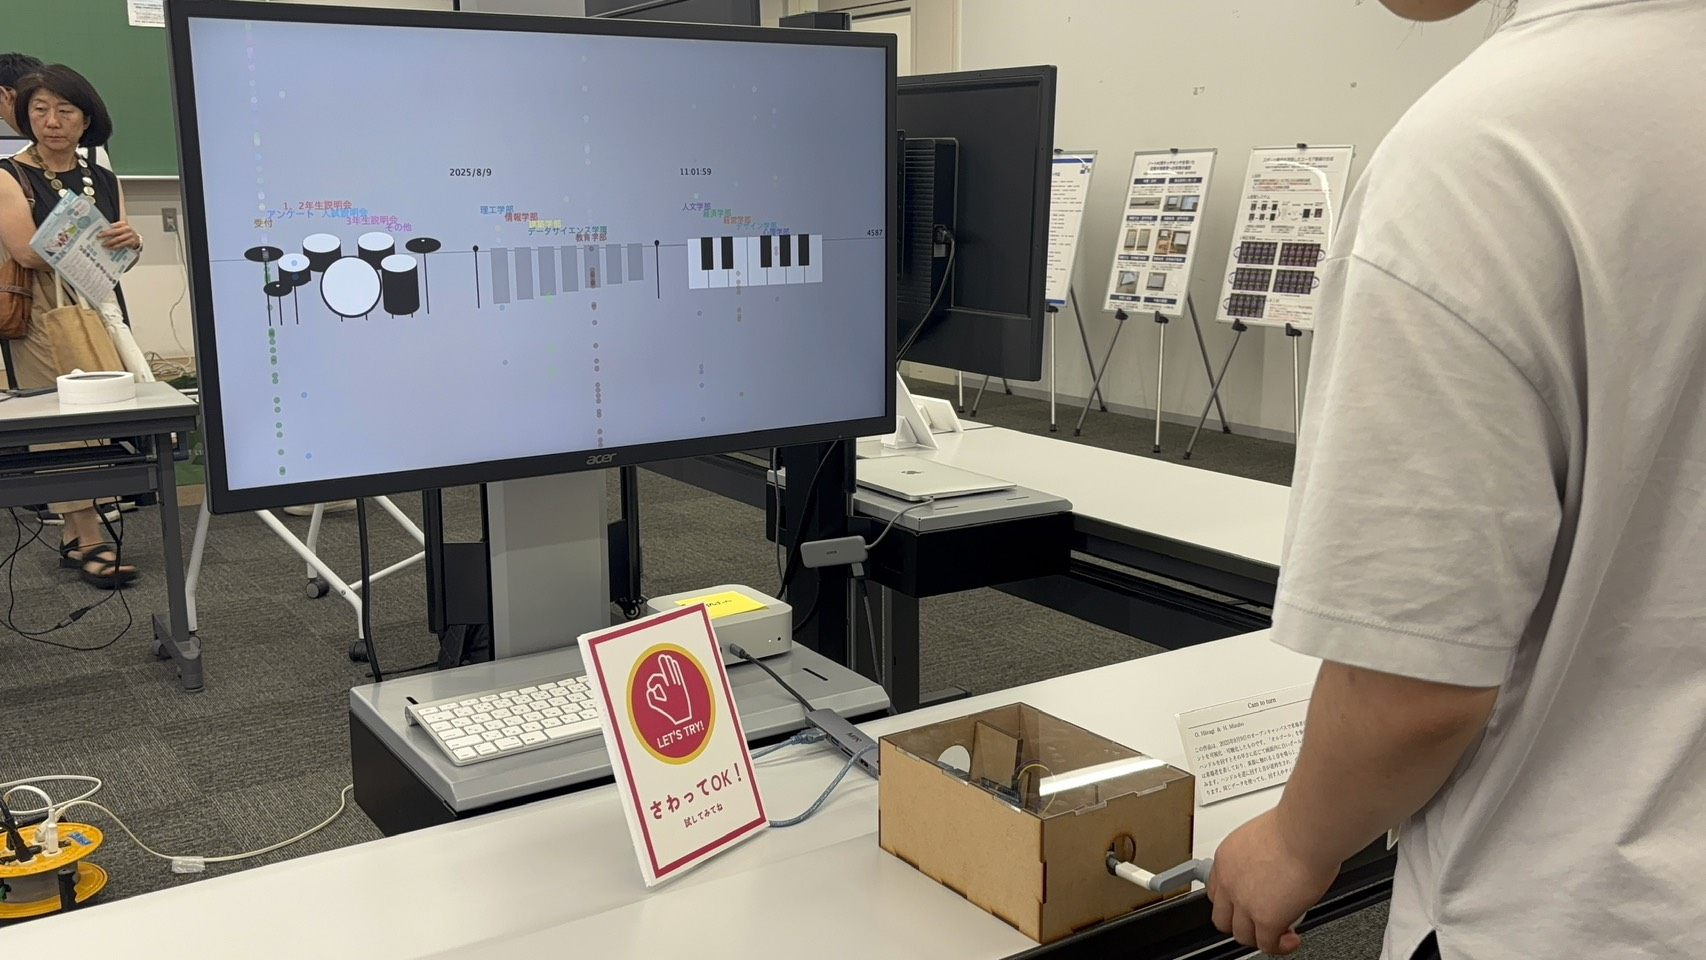
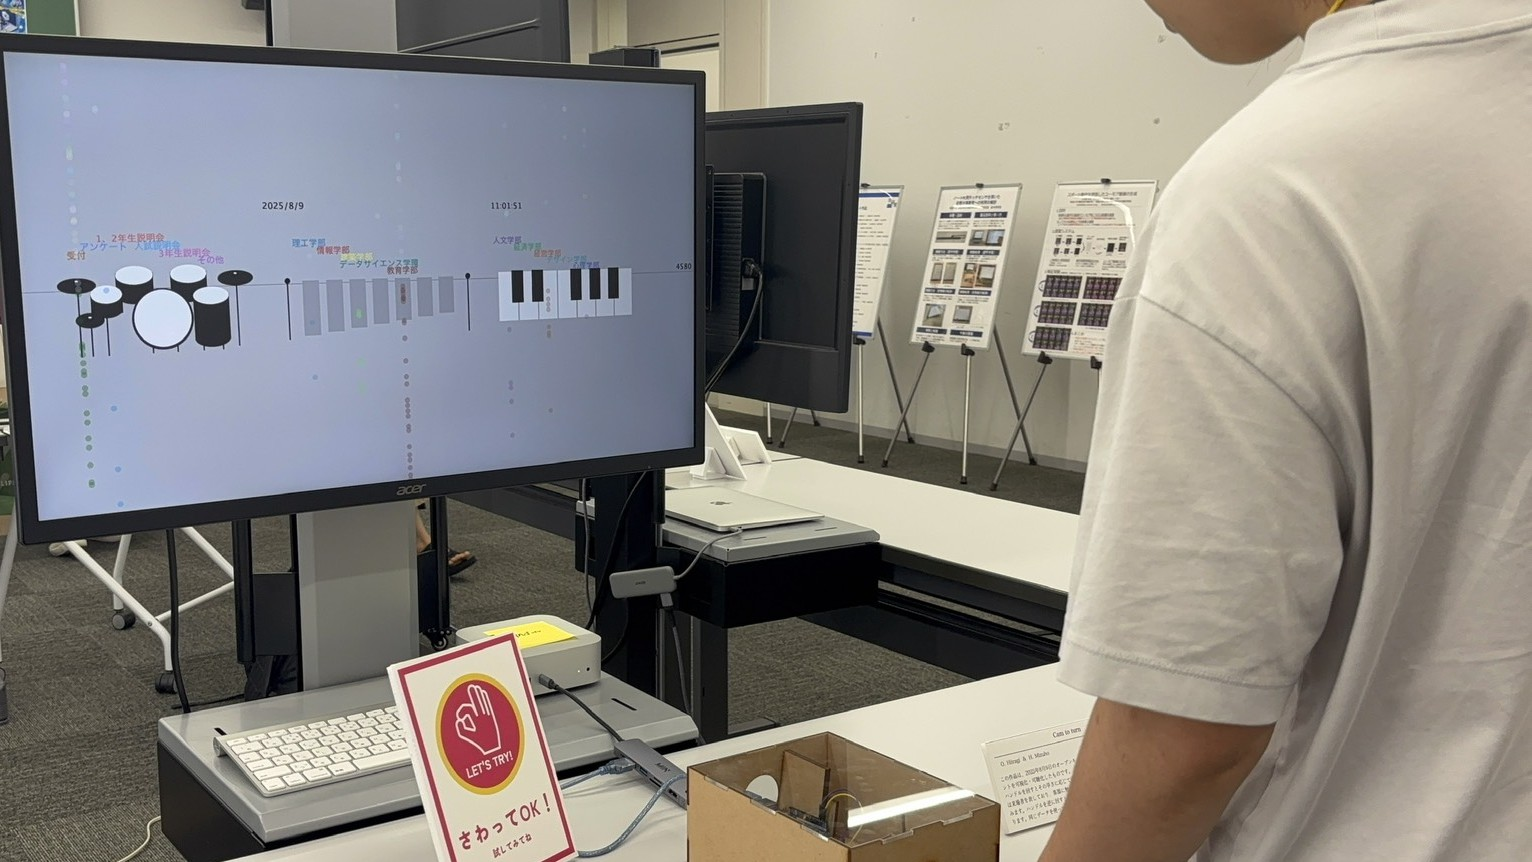
maru

diff --git a/content/works/work01.md b/content/works/work01.md
@@ -80,24 +80,25 @@ hidemeta: true
   display: flex;
   gap: 12px;
   overflow-x: auto;
-  overflow-y: visible !important; 
-  padding: 10px 4px 8px 4px !important; 
+  overflow-y: visible !important; /* 縦方向のはみ出しを許可 */
+  padding: 10px 4px 8px 4px !important; /* 上下に余白を追加 */
   scrollbar-width: thin;
 }
 
 /* サムネイルの丸型設定 */
 .work-thumb-item {
-  width: 60px;
-  height: 60px;
+  width: 60px !important;
+  height: 60px !important;
   border-radius: 50% !important;
   flex-shrink: 0;
-  overflow: hidden;
+  overflow: hidden !important;
   cursor: pointer;
   border: 2px solid transparent;
   opacity: 0.6;
   transition: all 0.2s ease;
-  background: #f4f4f4;
+  background: transparent !important;
   box-sizing: border-box;
+  padding: 0 !important;
 }
 
 .work-thumb-item.active, .work-thumb-item:hover {
@@ -107,10 +108,15 @@ hidemeta: true
 }
 
 .work-thumb-item img {
-  width: 100%;
-  height: 100%;
+  width: 100% !important;
+  height: 100% !important;
+  max-width: 100% !important;
+  max-height: 100% !important;
   object-fit: cover !important;
-  display: block;
+  border-radius: 0 !important; 
+  margin: 0 !important; 
+  padding: 0 !important;
+  display: block !important;
 }
 
 /* 右側：情報テキスト群 */

diff --git a/content/works/work03.md b/content/works/work03.md
@@ -87,17 +87,18 @@ hidemeta: true
 
 /* サムネイルの丸型設定 */
 .work-thumb-item {
-  width: 60px;
-  height: 60px;
+  width: 60px !important;
+  height: 60px !important;
   border-radius: 50% !important;
   flex-shrink: 0;
-  overflow: hidden;
+  overflow: hidden !important;
   cursor: pointer;
   border: 2px solid transparent;
   opacity: 0.6;
   transition: all 0.2s ease;
-  background: #f4f4f4;
+  background: transparent !important;
   box-sizing: border-box;
+  padding: 0 !important;
 }
 
 .work-thumb-item.active, .work-thumb-item:hover {
@@ -107,11 +108,17 @@ hidemeta: true
 }
 
 .work-thumb-item img {
-  width: 100%;
-  height: 100%;
+  width: 100% !important;
+  height: 100% !important;
+  max-width: 100% !important;
+  max-height: 100% !important;
   object-fit: cover !important;
-  display: block;
+  border-radius: 0 !important; 
+  margin: 0 !important; 
+  padding: 0 !important;
+  display: block !important;
 }
+
 
 /* 右側：情報テキスト群 */
 .work-info-section {

diff --git a/content/works/work02.md b/content/works/work02.md
@@ -82,17 +82,18 @@ font-weight: 600;
 
 /* サムネイルの丸型設定 */
 .work-thumb-item {
-  width: 60px;
-  height: 60px;
+  width: 60px !important;
+  height: 60px !important;
   border-radius: 50% !important;
   flex-shrink: 0;
-  overflow: hidden;
+  overflow: hidden !important;
   cursor: pointer;
   border: 2px solid transparent;
   opacity: 0.6;
   transition: all 0.2s ease;
-  background: #f4f4f4;
+  background: transparent !important;
   box-sizing: border-box;
+  padding: 0 !important;
 }
 
 .work-thumb-item.active, .work-thumb-item:hover {
@@ -102,10 +103,15 @@ font-weight: 600;
 }
 
 .work-thumb-item img {
-  width: 100%;
-  height: 100%;
+  width: 100% !important;
+  height: 100% !important;
+  max-width: 100% !important;
+  max-height: 100% !important;
   object-fit: cover !important;
-  display: block;
+  border-radius: 0 !important; 
+  margin: 0 !important; 
+  padding: 0 !important;
+  display: block !important;
 }
 
 

diff --git a/content/works/work04.md b/content/works/work04.md
@@ -87,17 +87,18 @@ hidemeta: true
 
 /* サムネイルの丸型設定 */
 .work-thumb-item {
-  width: 60px;
-  height: 60px;
+  width: 60px !important;
+  height: 60px !important;
   border-radius: 50% !important;
   flex-shrink: 0;
-  overflow: hidden;
+  overflow: hidden !important;
   cursor: pointer;
   border: 2px solid transparent;
   opacity: 0.6;
   transition: all 0.2s ease;
-  background: #f4f4f4;
+  background: transparent !important;
   box-sizing: border-box;
+  padding: 0 !important;
 }
 
 .work-thumb-item.active, .work-thumb-item:hover {
@@ -107,10 +108,15 @@ hidemeta: true
 }
 
 .work-thumb-item img {
-  width: 100%;
-  height: 100%;
+  width: 100% !important;
+  height: 100% !important;
+  max-width: 100% !important;
+  max-height: 100% !important;
   object-fit: cover !important;
-  display: block;
+  border-radius: 0 !important; 
+  margin: 0 !important; 
+  padding: 0 !important;
+  display: block !important;
 }
 
 
